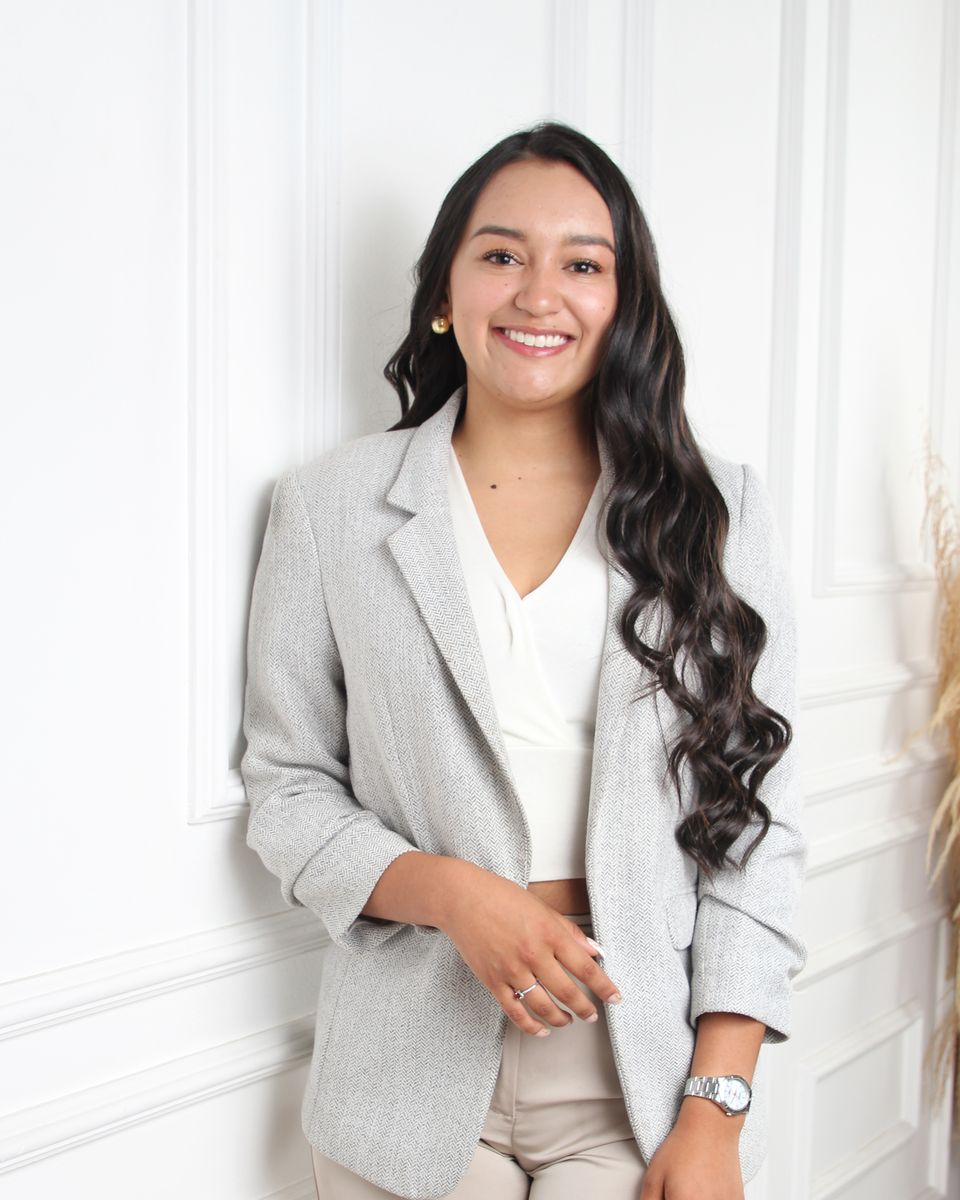
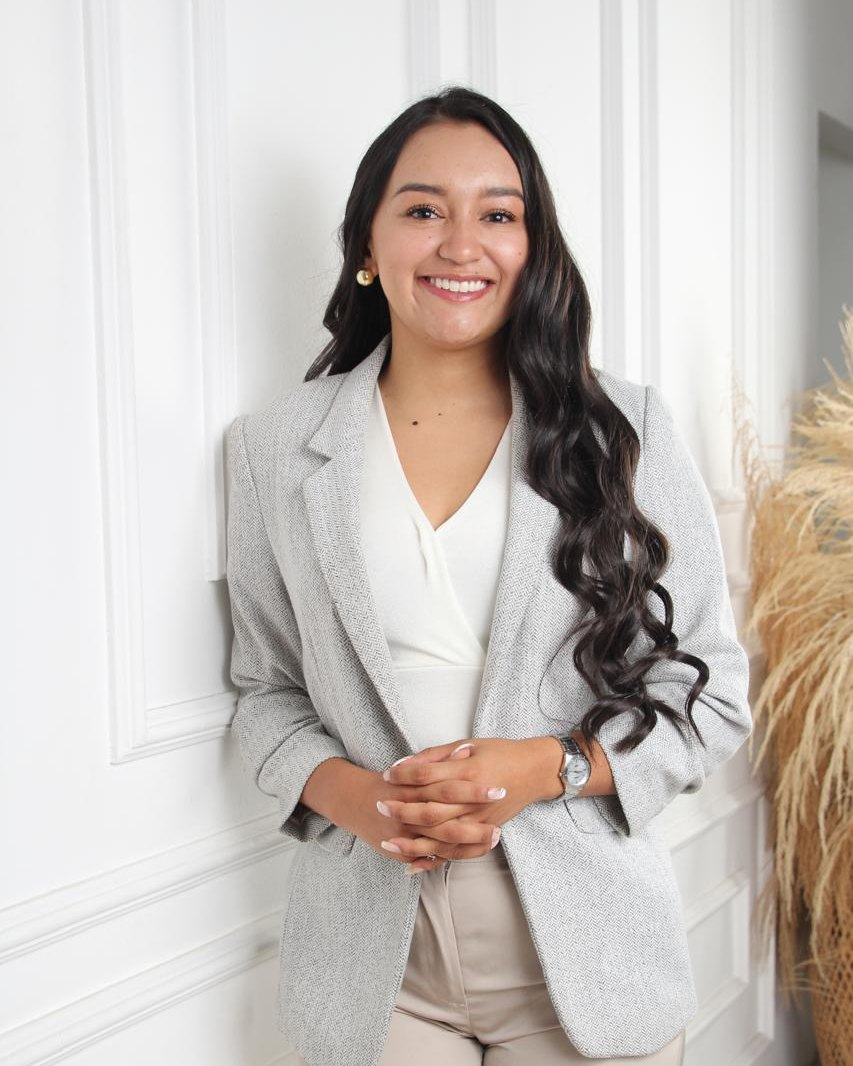
Add files via upload

diff --git a/index.html b/index.html
@@ -131,7 +131,7 @@
   padding-bottom:env(safe-area-inset-bottom,0px);
 }
 *,*::before,*::after{box-sizing:inherit}
-html{scroll-behavior:smooth;scroll-padding-top:calc(84px + env(safe-area-inset-top,0px))}
+html{scroll-behavior:smooth;scroll-padding-top:calc(92px + env(safe-area-inset-top,0px))}
 @media (prefers-reduced-motion:reduce){html{scroll-behavior:auto}}
 body{margin:0;background:#fff;color:var(--tinta);font-family:var(--sans);font-size:17px;line-height:1.6;-webkit-font-smoothing:antialiased}
 img,svg{max-width:100%;display:block}
@@ -147,11 +147,11 @@ p{margin:0}
 
 /* Encabezado */
 .encabezado{position:sticky;top:env(safe-area-inset-top,0px);z-index:50;background:rgba(255,255,255,.96);backdrop-filter:blur(6px);border-bottom:1px solid var(--linea)}
-.encabezado .contenedor{display:flex;align-items:center;justify-content:space-between;gap:24px;height:76px}
+.encabezado .contenedor{display:flex;align-items:center;justify-content:space-between;gap:24px;height:84px}
 .marca{display:flex;align-items:center;gap:14px;text-decoration:none;color:var(--azul)}
-.marca svg{width:58px;height:auto}
+.marca svg{width:84px;height:auto}
 .marca-texto{display:flex;flex-direction:column;line-height:1.1}
-.marca-nombre{font-family:var(--serif);font-size:19px}
+.marca-nombre{font-family:var(--serif);font-size:20px}
 .marca-titulo{font-size:10px;font-weight:600;letter-spacing:.28em;margin-top:4px}
 .menu{display:flex;align-items:center;gap:28px}
 .menu a{text-decoration:none;color:var(--tinta);font-size:15px;font-weight:500}
@@ -285,7 +285,7 @@ details p{padding:0 0 24px;color:var(--suave);max-width:40em}
 .flotante svg{width:36px;height:36px}
 
 @media (max-width:900px){
-  .menu{display:none;position:absolute;top:76px;left:0;right:0;background:#fff;flex-direction:column;align-items:stretch;gap:0;padding:8px 24px 20px;border-bottom:1px solid var(--linea)}
+  .menu{display:none;position:absolute;top:84px;left:0;right:0;background:#fff;flex-direction:column;align-items:stretch;gap:0;padding:8px 24px 20px;border-bottom:1px solid var(--linea)}
   .menu.abierto{display:flex}
   .menu a{padding:14px 0;border-bottom:1px solid var(--linea)}
   .menu .boton{margin-top:14px;border-bottom:0}
@@ -318,8 +318,9 @@ details p{padding:0 0 24px;color:var(--suave);max-width:40em}
   <div class="contenedor">
     <a class="marca" href="#inicio" aria-label="María Paula Medina, inicio">
       <svg viewBox="12 40 282 165" aria-hidden="true">
-        <path d="M22 40H29V200H22ZM22 40L42 40 92 200 80 200ZM86 200L92 200 140 40 134 40ZM134 40H152V200H134ZM216 40H234V200H216ZM234 40H246A45 45 0 0 1 246 130H234V116H246A31 31 0 0 0 246 54H234Z" fill="#1E3A5F"/>
-        <path d="M168 118H184V200H168ZM192 84H208V200H192ZM12 200H294V205H12Z" fill="#C8962E"/>
+        <path d="M22 40H29V200H22ZM22 40L42 40 92 200 80 200ZM86 200L92 200 140 40 134 40ZM134 40H152V200H134ZM234 40H246A45 45 0 0 1 246 130H234V116H246A31 31 0 0 0 246 54H234Z" fill="#1E3A5F"/>
+        <path d="M216 40H234V184H216ZM220.5 68a4.5 4.5 0 1 0 9 0a4.5 4.5 0 1 0-9 0ZM216 186.5H234V200H216Z" fill="#1E3A5F" fill-rule="evenodd"/>
+        <path d="M168 118H184V184H168ZM171.5 132a4.5 4.5 0 1 0 9 0a4.5 4.5 0 1 0-9 0ZM168 186.5H184V200H168ZM192 84H208V184H192ZM195.5 98a4.5 4.5 0 1 0 9 0a4.5 4.5 0 1 0-9 0ZM192 186.5H208V200H192ZM12 200H294V205H12Z" fill="#C8962E" fill-rule="evenodd"/>
       </svg>
       <span class="marca-texto"><span class="marca-nombre">María Paula Medina</span><span class="marca-titulo">CONTADORA PÚBLICA</span></span>
     </a>
@@ -349,7 +350,7 @@ details p{padding:0 0 24px;color:var(--suave);max-width:40em}
         </div>
       </div>
       <div class="hero-foto">
-        <img src="/maria-paula-medina-contadora-medellin.jpg" width="960" height="1200" alt="María Paula Medina, contadora pública, sonriendo con blazer gris">
+        <img src="/maria-paula-medina-contadora-medellin.jpg" width="853" height="1066" alt="María Paula Medina, contadora pública, sonriendo con blazer gris">
       </div>
     </div>
     <div class="estante" aria-hidden="true"></div>
